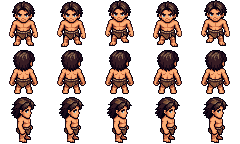
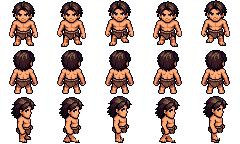
Marche fabriquée sans PixelLab : profil du soldat (jambe éloignée recopiée, inclinaison en pixels entiers)

diff --git a/PROGRESS.md b/PROGRESS.md
@@ -1,6 +1,6 @@
 # INCR-AGE — Suivi du projet
 
-**État : prototype de marche du soldat vers le bas (touche F4), fait, en commit local, en attente de validation (non poussé, pas de tag). Soldat PixelLab dans le groupe validé et publié. Héros PixelLab validé et publié. Troupes organiques (lot 1), lots 1 à 4 de la diversification de l'armée et voie C, étapes 1 à 6 (zone témoin complète), validés et publiés. Audio terminé et validé.**
+**État : prototype de marche du soldat vers le bas et de profil (touche F4), fait, en commits locaux, en attente de validation (non poussé, pas de tag). Soldat PixelLab dans le groupe validé et publié. Héros PixelLab validé et publié. Troupes organiques (lot 1), lots 1 à 4 de la diversification de l'armée et voie C, étapes 1 à 6 (zone témoin complète), validés et publiés. Audio terminé et validé.**
 **Validé : phases 1, 2 (lots A et B), 3 (lots 3A, 3B, 3C) — tags `phase-1`, `phase-2a`, `phase-2b`, `phase-3a`, `phase-3b`, `phase-3c`. Plans : `docs/PHASE_2_PLAN.md`, `docs/PHASE_3_PLAN.md`.**
 Titre du jeu non choisi : « INCR-AGE » est le nom du dossier, pas un titre.
 
@@ -309,7 +309,7 @@ Voir les priorités 2 et 3 du plan artistique.
 - **Plan graphique** (03/11/2026) : audit et plan simplifié dans `docs/PLAN_GRAPHIQUE.md`, captures de l'état actuel dans `docs/art/audit/`. Rien de développé : la vitrine attend les exports PixelLab du héros et la décision de taille des personnages (section 2 du plan).
 - **Héros PixelLab à l'essai** (03/11/2026), validé par le porteur du projet et publié : version retenue de l'export (la moins détaillée), à sa taille réelle (46 à 50 px), derrière la touche F3 ou l'argument `-- --hero-skin=pixellab` ; le sprite actuel reste le défaut, rien n'est enregistré. Apparence seulement : collisions, vitesse, portée, combat, caméra et sauvegarde inchangés. Planche assemblée par `tools/pack_pixellab.gd` depuis `assets/source/pixellab/hero/`. Détail et vérifications : `docs/PLAN_GRAPHIQUE.md`, sections 7 et 8.
 - **Soldat PixelLab dans le groupe** (03/11/2026), validé par le porteur du projet et publié : soldat de base (poses fixes, balancement de marche calculé) pour tous les compagnons, avec le héros PixelLab ; F3 bascule désormais le groupe entier, `-- --skin=pixellab` au lancement ; espacement de la formation ×1,5 dans ce rendu ; rôles, statistiques, collisions, sauvegarde et règles du suivi inchangés. Tour complet à 8 compagnons : 149,8 s, 60 FPS, 6 retours forcés. Détail et limites : `docs/PLAN_GRAPHIQUE.md`, section 10.
-- **Marche fabriquée sans PixelLab, prototype vers le bas** (03/11/2026), en attente de validation (commit local, non poussé) : `tools/animate_walk.gd` découpe les membres de la pose fixe du soldat (pixels entiers, ni rotation ni lissage) pour un cycle de 4 images ; F4 le compare en jeu à la marche balancée validée (apparence PixelLab, F3). Rien d'autre ne change. Détail et limites : `docs/PLAN_GRAPHIQUE.md`, section 11.
+- **Marche fabriquée sans PixelLab, prototype vers le bas et de profil** (03/11/2026), en attente de validation (commits locaux, non poussés) : `tools/animate_walk.gd` découpe les membres de la pose fixe du soldat (pixels entiers, ni rotation ni lissage) pour des cycles de 4 images (face, puis profil avec une jambe éloignée recopiée et assombrie) ; F4 le compare en jeu à la marche balancée validée (apparence PixelLab, F3). Rien d'autre ne change. Détail et limites : `docs/PLAN_GRAPHIQUE.md`, section 11.
 
 - **Voie C, étape 6 : falaises, escalier et rebords** (section 15 de `docs/WORLD_ART_PLAN.md`), validée par le porteur du projet le 27/10/2026 (retouches comprises) et publiée :
   - `cliffs.png` (26 tuiles) dessinée par le nouvel outil `tools/draw_cliffs.gd` : faces haute et basse en strates (3 variantes chacune), coins saillants arrondis, coins rentrants, escalier et ses joues, ombre au pied, rebords ouest, est et nord ; couleurs contrôlées contre la palette ;

diff --git a/docs/PLAN_GRAPHIQUE.md b/docs/PLAN_GRAPHIQUE.md
@@ -307,3 +307,19 @@ inverse, passage inverse), 7 images par seconde à la vitesse des compagnons (2 
   s'inclinant : il faudra décaler les rangées de la jambe progressivement (pixels entiers, sans
   rotation) et redessiner quelques pixels de genou. C'est la direction la plus difficile ; à essayer
   avant de généraliser.
+
+**Profil (ajouté le 03/11/2026, en attente de validation)** : même outil, mode « profile ».
+- Dans la pose, les deux jambes se superposent. La jambe proche (pied compris) sert de modèle et est
+  dessinée deux fois : la jambe éloignée en est la copie, assombrie avec les teintes de la jambe
+  elle-même, et dessinée derrière le corps.
+- Chaque jambe s'incline par un décalage progressif de ses rangées, de la hanche au pied (jusqu'à
+  5 px), en marches d'un pixel : au contact, les jambes forment un compas ouvert ; au passage, la
+  jambe levée perd deux rangées de tibia et le corps monte d'un pixel. La main avance et recule d'un
+  pixel, en opposition avec la jambe proche.
+- La gauche est le miroir de la droite, comme pour tous les profils du jeu.
+- Captures : `docs/art/soldat/marche_profil_prototype.png` (pose puis 4 images, ×6) et
+  `marche_profil_en_jeu.png` (groupe vers la droite, puis vers la gauche, taille réelle).
+- Premier essai écarté : un modèle de jambe trop large (il prenait une partie de la jambe éloignée) et
+  un pas de ±3 px, plus petit que la largeur de la jambe, donnaient des jambes emmêlées au contact.
+- **Limites** : les jambes inclinées restent droites (pas de genou fléchi au contact) ; le dos du soldat
+  garde le balancement ; il reste le dos (même technique que la face, attendue plus simple).
